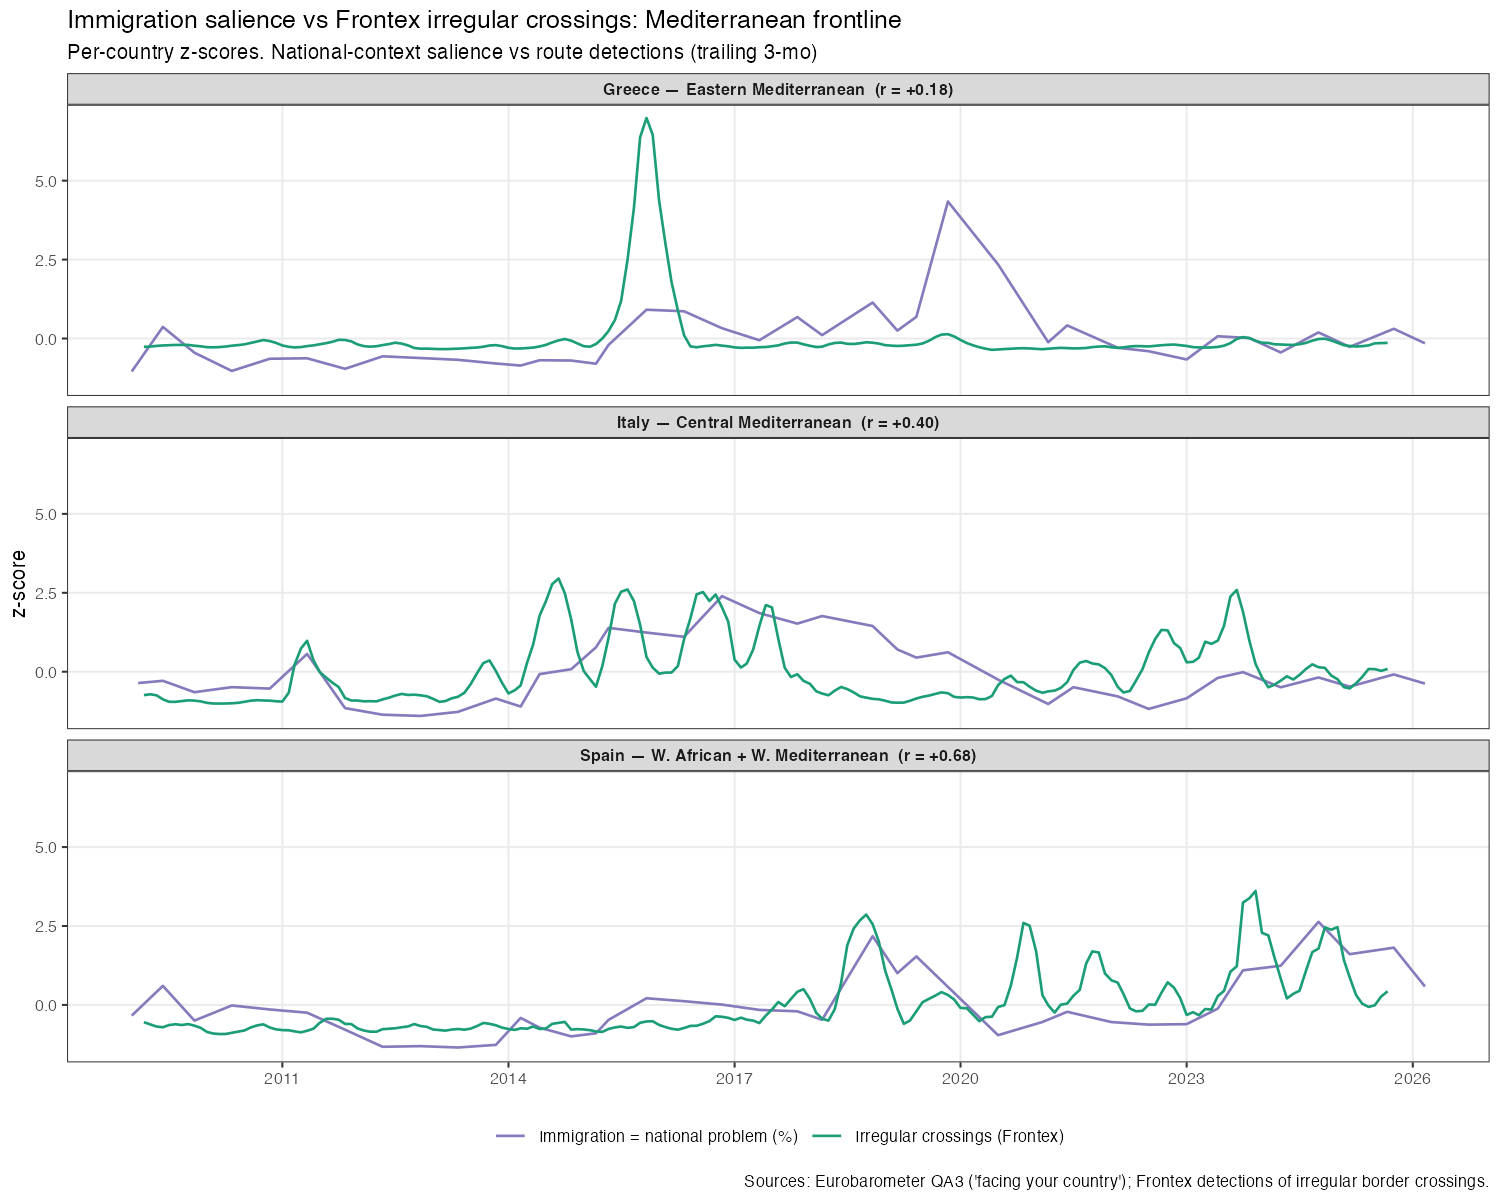
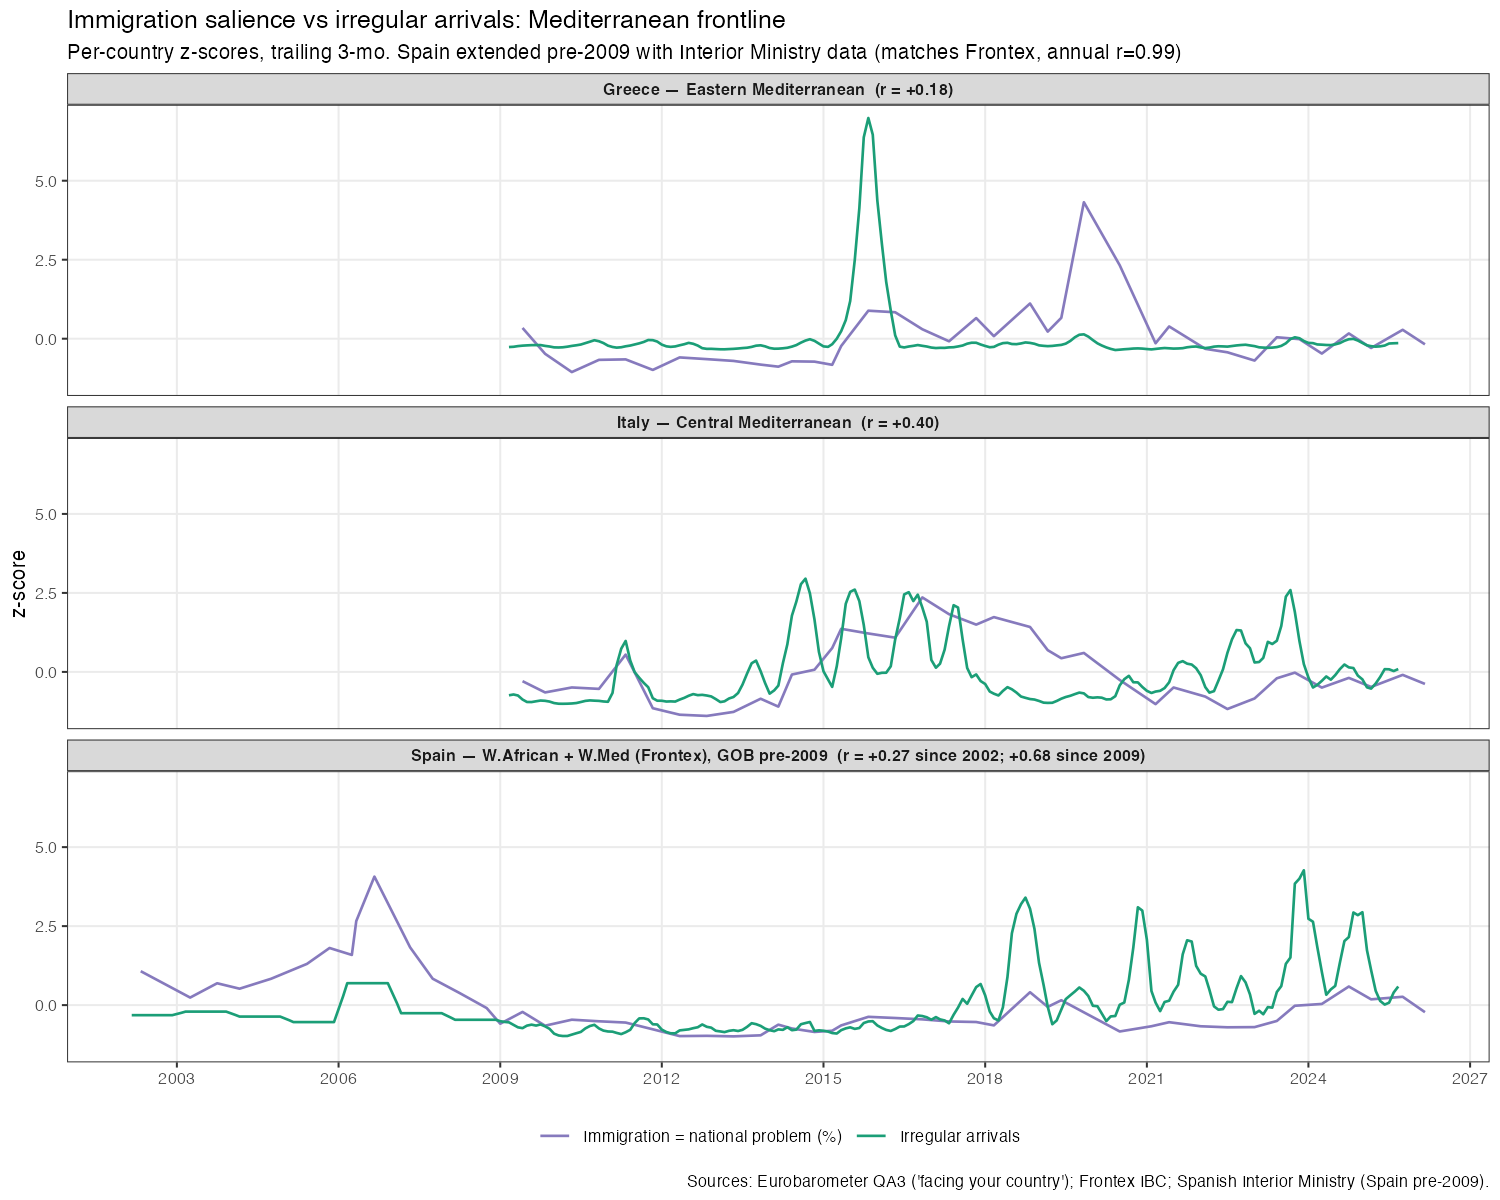
Extend Spain arrivals pre-2009 with Interior Ministry (GOB) data
Splice GOB annual irregular arrivals (2002-2008) onto Frontex (2009+) for the
Spain frontline panel; the two match on overlap (annual r=0.99). Label shows
both full-period (r=0.27 since 2002) and modern (r=0.68 since 2009) correlations
- early-2000s Spanish salience tracked the regular-migration boom, not boats.

Add R/build_frontex_csv.R to refresh the committed Frontex CSV from a freshly
downloaded workbook (no public API exists for the historical series; only the
current month is queryable via the live map's ArcGIS service).

diff --git a/README.md b/README.md
@@ -50,6 +50,15 @@ route, so the UK isn't covered here.
 
 ![Frontex frontline](output/immigration_frontex_frontline.png)
 
+(Spain is extended back to 2002 with the Spanish Interior Ministry series, which
+matches Frontex on their overlap, annual r = 0.99. The boat-arrivals link is a
+*modern* phenomenon — r = 0.68 since 2009 but 0.27 since 2002, because early-2000s
+Spanish concern tracked the regular-migration boom, not boats.) Frontex publishes
+**no API for the historical series** — only the current month is queryable — so the
+committed monthly CSV is refreshed by downloading the workbook from the
+[Frontex migratory map](https://www.frontex.europa.eu/we-know/migratory-map/)
+into `data/external/` and running `R/build_frontex_csv.R`.
+
 ## What it produces
 
 | # | Deliverable | Stage |